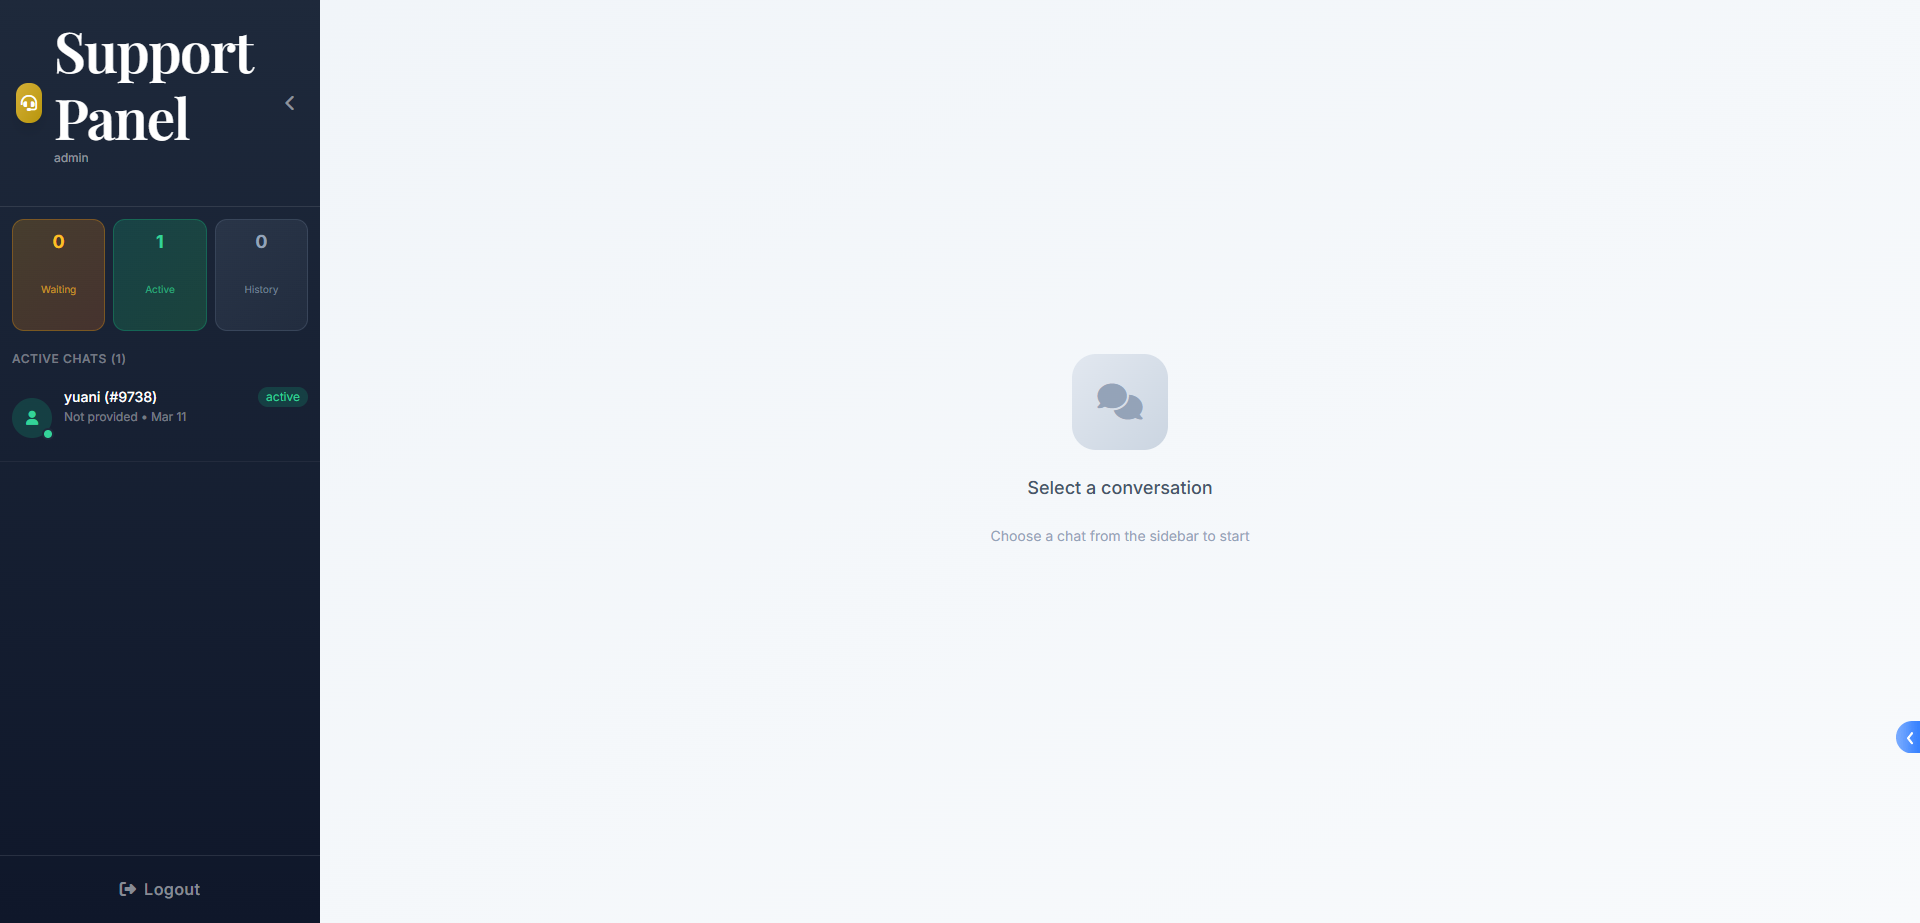
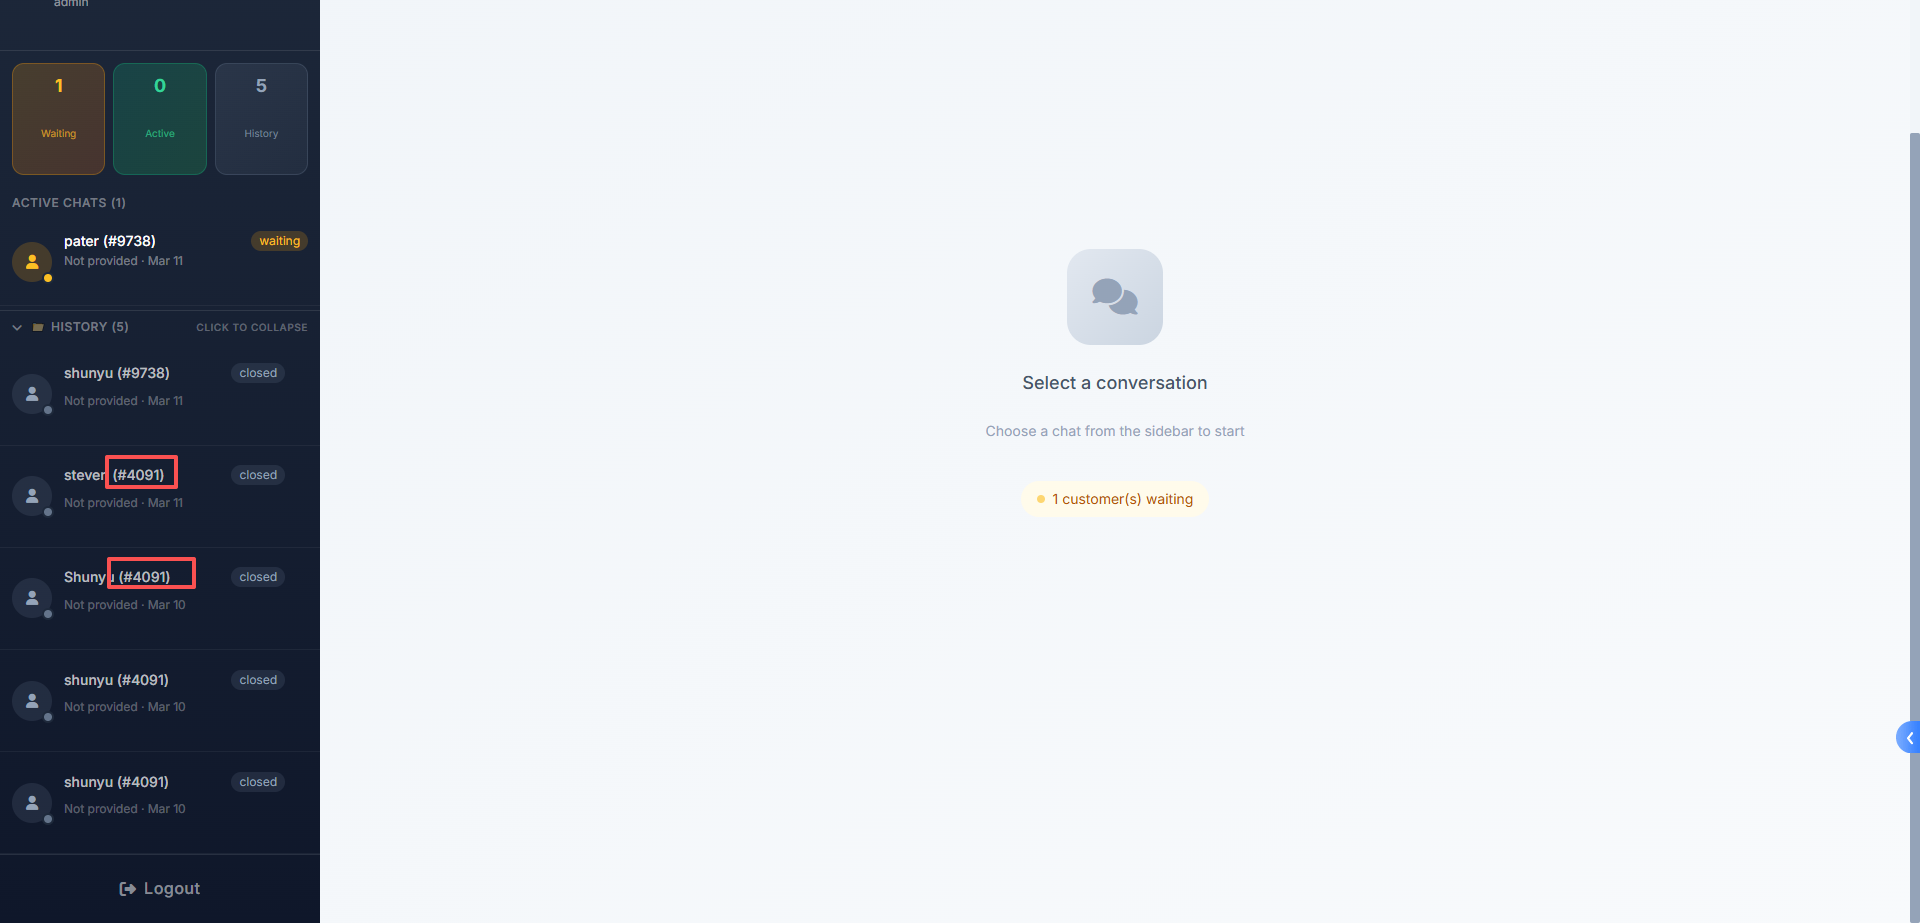
feat: 历史对话按客户编号合并显示
- 同一客户编号(#9738, #4091)的多个会话合并为分组
- 点击分组可展开查看该客户的所有历史会话
- 显示每个客户的会话数量和最后活跃时间
- 统计卡片显示客户数量而非会话数量

diff --git a/src/pages/AdminChat.tsx b/src/pages/AdminChat.tsx
@@ -21,6 +21,14 @@ interface Message {
   created_at: string;
 }
 
+// 按客户编号分组的会话
+interface GroupedSessions {
+  customerNo: string;
+  sessions: ChatSession[];
+  latestName: string;
+  latestUpdate: string;
+}
+
 const AdminChat = () => {
   const [sessions, setSessions] = useState<ChatSession[]>([]);
   const [selectedSession, setSelectedSession] = useState<ChatSession | null>(null);
@@ -32,6 +40,7 @@ const AdminChat = () => {
   const [sidebarCollapsed, setSidebarCollapsed] = useState(false);
   const [historyCollapsed, setHistoryCollapsed] = useState(false);
   const [deletingSession, setDeletingSession] = useState<string | null>(null);
+  const [expandedGroups, setExpandedGroups] = useState<Set<string>>(new Set());
   
   const messagesContainerRef = useRef<HTMLDivElement>(null);
   const messagesEndRef = useRef<HTMLDivElement>(null);
@@ -213,6 +222,18 @@ const AdminChat = () => {
     setMessages([]);
   };
 
+  const toggleGroup = (customerNo: string) => {
+    setExpandedGroups(prev => {
+      const newSet = new Set(prev);
+      if (newSet.has(customerNo)) {
+        newSet.delete(customerNo);
+      } else {
+        newSet.add(customerNo);
+      }
+      return newSet;
+    });
+  };
+
   const formatTime = (dateStr: string) => {
     return new Date(dateStr).toLocaleTimeString('en-US', { hour: '2-digit', minute: '2-digit' });
   };
@@ -227,7 +248,39 @@ const AdminChat = () => {
   
   // 分离活跃会话和历史会话
   const activeSessions = sessions.filter(s => s.status !== 'closed');
-  const closedSessions = sessions.filter(s => s.status === 'closed');
+  const closedSessionsList = sessions.filter(s => s.status === 'closed');
+
+  // 按客户编号分组历史会话
+  const groupedHistory = useCallback((): GroupedSessions[] => {
+    const groups = new Map<string, GroupedSessions>();
+    
+    closedSessionsList.forEach(session => {
+      const customerNo = session.customer_no || `#${session.id.substring(0, 4)}`;
+      
+      if (!groups.has(customerNo)) {
+        groups.set(customerNo, {
+          customerNo,
+          sessions: [],
+          latestName: session.visitor_name || 'Unknown',
+          latestUpdate: session.updated_at
+        });
+      }
+      
+      const group = groups.get(customerNo)!;
+      group.sessions.push(session);
+      
+      // 更新最新名称和更新时间
+      if (new Date(session.updated_at) > new Date(group.latestUpdate)) {
+        group.latestUpdate = session.updated_at;
+        group.latestName = session.visitor_name || group.latestName;
+      }
+    });
+    
+    // 按最新更新时间排序
+    return Array.from(groups.values()).sort(
+      (a, b) => new Date(b.latestUpdate).getTime() - new Date(a.latestUpdate).getTime()
+    );
+  }, [closedSessionsList]);
 
   // Login form
   if (!isAdmin) {
@@ -278,6 +331,8 @@ const AdminChat = () => {
     );
   }
 
+  const historyGroups = groupedHistory();
+
   return (
     <div className="min-h-screen bg-slate-100 flex">
       {/* Sessions Sidebar */}
@@ -317,8 +372,8 @@ const AdminChat = () => {
               <p className="text-[10px] text-emerald-400/70">Active</p>
             </div>
             <div className="bg-gradient-to-br from-slate-500/20 to-slate-600/20 border border-slate-500/30 rounded-xl p-2 text-center">
-              <p className="text-lg font-bold text-slate-400">{closedCount}</p>
-              <p className="text-[10px] text-slate-400/70">History</p>
+              <p className="text-lg font-bold text-slate-400">{historyGroups.length}</p>
+              <p className="text-[10px] text-slate-400/70">Customers</p>
             </div>
           </div>
         )}
@@ -388,8 +443,8 @@ const AdminChat = () => {
                 </>
               )}
               
-              {/* Closed Sessions (History) - 可折叠 */}
-              {closedSessions.length > 0 && (
+              {/* Closed Sessions (History) - 按客户编号分组 */}
+              {historyGroups.length > 0 && (
                 <>
                   {/* History Header - 可点击折叠 */}
                   <div 
@@ -398,7 +453,7 @@ const AdminChat = () => {
                   >
                     <span className="flex items-center gap-2">
                       <i className={`fa-solid fa-chevron-${historyCollapsed ? 'right' : 'down'} text-[10px]`}></i>
-                      📁 History ({closedSessions.length})
+                      📁 History ({historyGroups.length} customers, {closedCount} chats)
                     </span>
                     {!sidebarCollapsed && (
                       <span className="text-[10px] text-white/30">
@@ -407,51 +462,80 @@ const AdminChat = () => {
                     )}
                   </div>
                   
-                  {/* History List - 根据折叠状态显示/隐藏 */}
-                  {!historyCollapsed && closedSessions.map(session => (
-                    <div
-                      key={session.id}
-                      onClick={() => handleSelectSession(session)}
-                      className={`p-3 border-b border-white/5 cursor-pointer transition-all group ${
-                        selectedSession?.id === session.id 
-                          ? 'bg-gradient-to-r from-slate-600/30 to-transparent border-l-2 border-l-slate-400' 
-                          : 'hover:bg-white/5'
-                      }`}
-                    >
-                      <div className="flex items-center gap-3">
+                  {/* History Groups - 根据折叠状态显示/隐藏 */}
+                  {!historyCollapsed && historyGroups.map(group => (
+                    <div key={group.customerNo}>
+                      {/* Group Header */}
+                      <div 
+                        onClick={() => toggleGroup(group.customerNo)}
+                        className={`p-3 border-b border-white/5 cursor-pointer hover:bg-white/5 transition-all flex items-center gap-3 ${
+                          expandedGroups.has(group.customerNo) ? 'bg-white/5' : ''
+                        }`}
+                      >
                         <div className="relative flex-shrink-0">
                           <div className="w-10 h-10 rounded-full flex items-center justify-center bg-slate-500/20 text-slate-400">
                             <i className="fa-solid fa-user text-sm"></i>
                           </div>
-                          <span className="absolute -bottom-0.5 -right-0.5 w-3 h-3 rounded-full border-2 border-slate-800 bg-slate-500"></span>
+                          <span className="absolute -bottom-0.5 -right-0.5 w-5 h-5 rounded-full bg-slate-600 text-white text-[10px] flex items-center justify-center font-bold">
+                            {group.sessions.length}
+                          </span>
                         </div>
                         {!sidebarCollapsed && (
                           <div className="flex-1 min-w-0">
                             <div className="flex items-center justify-between">
                               <span className="font-medium text-white/70 text-sm truncate">
-                                {session.visitor_name ? `${session.visitor_name} (${session.customer_no || `#${session.id.substring(0, 4)}`})` : session.customer_no || `#${session.id.substring(0, 4)}`}
+                                {group.latestName} ({group.customerNo})
                               </span>
                               <div className="flex items-center gap-1 flex-shrink-0">
-                                <span className="text-xs px-2 py-0.5 rounded-full bg-slate-500/20 text-slate-400">
-                                  closed
-                                </span>
-                                {/* 删除按钮 */}
-                                <button
-                                  onClick={(e) => deleteSession(session.id, e)}
-                                  disabled={deletingSession === session.id}
-                                  className="p-1 text-white/30 hover:text-red-400 hover:bg-red-400/10 rounded transition-all opacity-0 group-hover:opacity-100"
-                                  title="Delete conversation"
-                                >
-                                  <i className={`fa-solid ${deletingSession === session.id ? 'fa-spinner fa-spin' : 'fa-trash'} text-xs`}></i>
-                                </button>
+                                <i className={`fa-solid fa-chevron-${expandedGroups.has(group.customerNo) ? 'down' : 'right'} text-[10px] text-white/30`}></i>
                               </div>
                             </div>
                             <p className="text-xs text-white/30 truncate mt-0.5">
-                              {session.visitor_email || 'No email'} · {formatDate(session.updated_at)}
+                              {group.sessions.length} conversation{group.sessions.length > 1 ? 's' : ''} · Last {formatDate(group.latestUpdate)}
                             </p>
                           </div>
                         )}
                       </div>
+                      
+                      {/* Group Sessions - 展开时显示 */}
+                      {expandedGroups.has(group.customerNo) && group.sessions.map(session => (
+                        <div
+                          key={session.id}
+                          onClick={() => handleSelectSession(session)}
+                          className={`p-3 pl-12 border-b border-white/5 cursor-pointer transition-all group ${
+                            selectedSession?.id === session.id 
+                              ? 'bg-gradient-to-r from-slate-600/30 to-transparent border-l-2 border-l-slate-400' 
+                              : 'hover:bg-white/5'
+                          }`}
+                        >
+                          <div className="flex items-center gap-3">
+                            <div className="flex-1 min-w-0">
+                              <div className="flex items-center justify-between">
+                                <span className="font-medium text-white/60 text-sm">
+                                  {session.visitor_name || 'Unknown'}
+                                </span>
+                                <div className="flex items-center gap-1 flex-shrink-0">
+                                  <span className="text-[10px] px-2 py-0.5 rounded-full bg-slate-500/20 text-slate-400">
+                                    {formatDate(session.updated_at)}
+                                  </span>
+                                  {/* 删除按钮 */}
+                                  <button
+                                    onClick={(e) => deleteSession(session.id, e)}
+                                    disabled={deletingSession === session.id}
+                                    className="p-1 text-white/30 hover:text-red-400 hover:bg-red-400/10 rounded transition-all opacity-0 group-hover:opacity-100"
+                                    title="Delete conversation"
+                                  >
+                                    <i className={`fa-solid ${deletingSession === session.id ? 'fa-spinner fa-spin' : 'fa-trash'} text-xs`}></i>
+                                  </button>
+                                </div>
+                              </div>
+                              <p className="text-xs text-white/25 truncate mt-0.5">
+                                {session.visitor_email || 'No email'}
+                              </p>
+                            </div>
+                          </div>
+                        </div>
+                      ))}
                     </div>
                   ))}
                 </>
